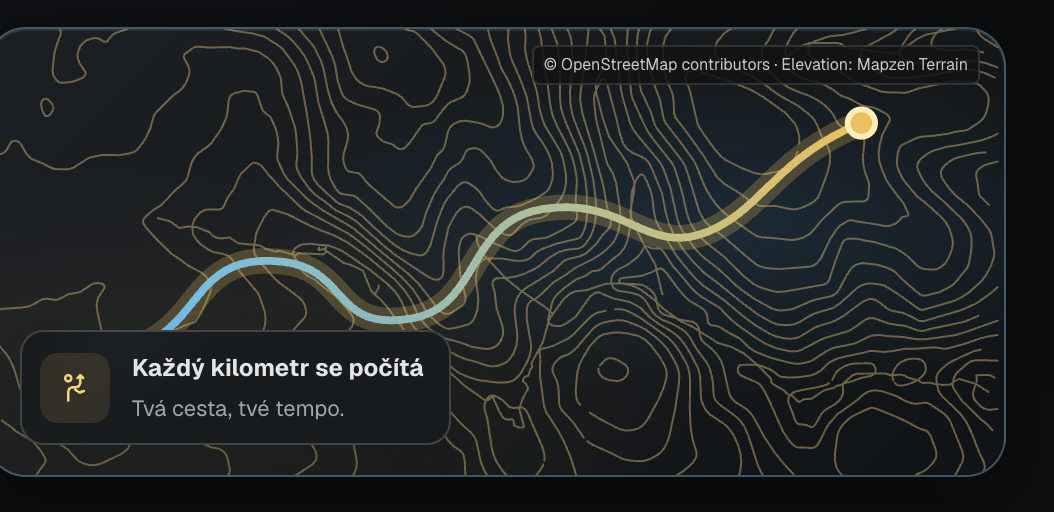
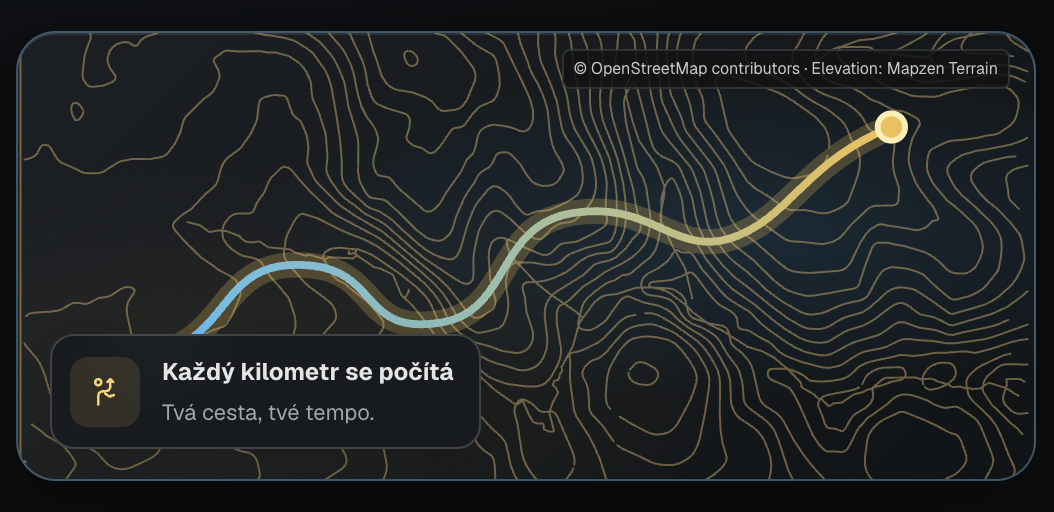
obrazek v centru fix

Changed region(s): [[0.0, 0.0312, 1.0, 0.9375], [0.1518, 0.1875, 0.2125, 0.2188]]

diff --git a/portfolio/src/components/projects.css b/portfolio/src/components/projects.css
@@ -151,11 +151,12 @@
   display: grid;
   place-items: center;
   aspect-ratio: 1054 / 504;
-  padding: 1% 1.5%;
   background: #090d0e;
 }
 
 .running-preview img {
+  width: 90%;
+  height: 90%;
   object-fit: contain;
   background: #090d0e;
 }
